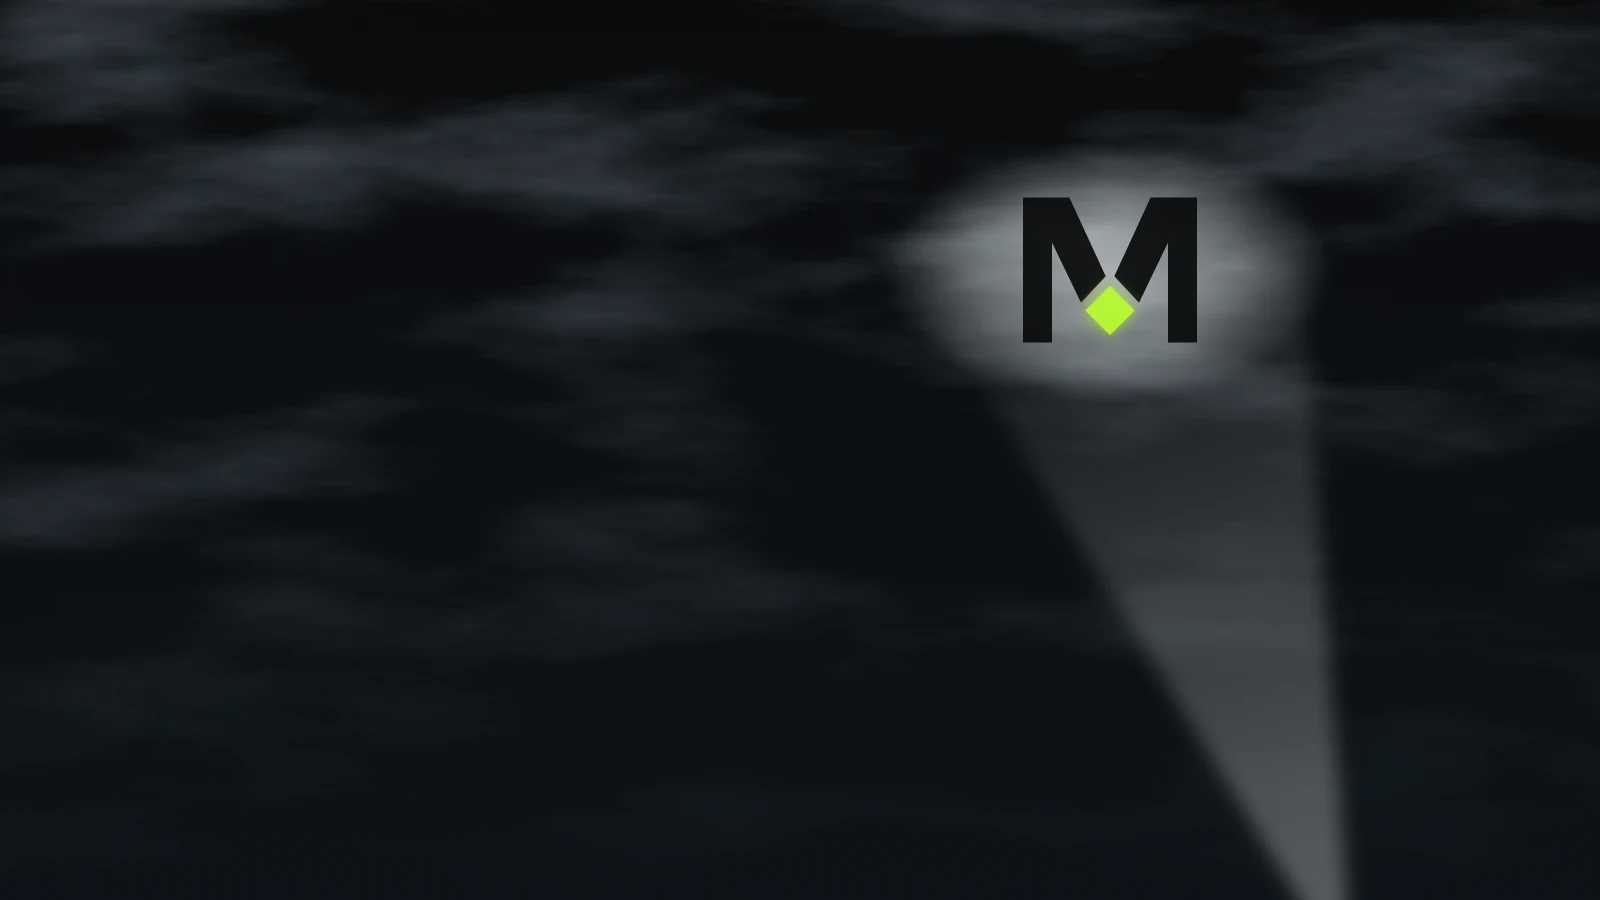
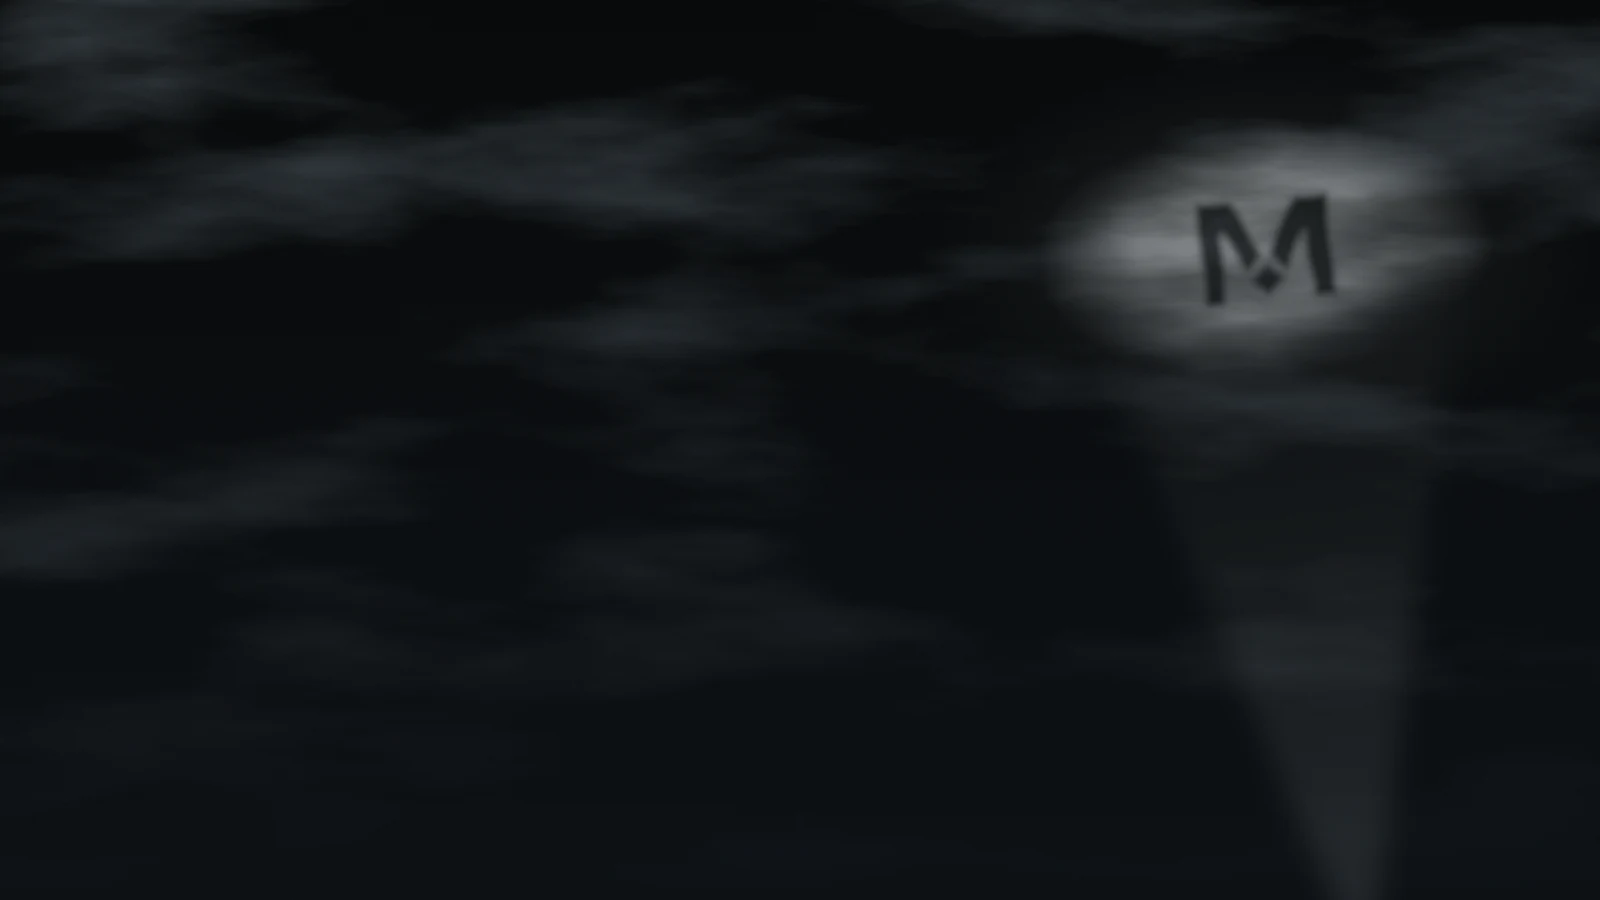
feat(contato): sinal minimalista — só nuvens e o M discreto projetado

diff --git a/assets/identity.css b/assets/identity.css
@@ -168,7 +168,13 @@ h2 { letter-spacing: -.035em; }
 .contact .button:hover { background: var(--accent); box-shadow: 0 0 0 1px var(--accent), 0 0 40px rgba(184, 255, 44, .3); }
 .contact :focus-visible { outline-color: var(--accent); }
 .id-signal { position: absolute; inset: 0; z-index: 0; pointer-events: none; }
-.id-signal img { width: 100%; height: 100%; object-fit: cover; object-position: 70% 62%; animation: id-flicker 6s steps(1) infinite; }
+.id-signal img {
+  position: absolute; top: -70px; right: 0; width: min(1240px, 92%); height: auto; animation: id-flicker 6s steps(1) infinite;
+  -webkit-mask-image: linear-gradient(to right, transparent 0%, #000 38%), linear-gradient(to bottom, transparent 0%, #000 12%, #000 55%, transparent 100%);
+  -webkit-mask-composite: source-in;
+  mask-image: linear-gradient(to right, transparent 0%, #000 38%), linear-gradient(to bottom, transparent 0%, #000 12%, #000 55%, transparent 100%);
+  mask-composite: intersect;
+}
 .id-signal::after { content: ""; position: absolute; inset: 0; background: linear-gradient(90deg, rgba(6, 8, 9, .92) 0%, rgba(6, 8, 9, .55) 45%, rgba(6, 8, 9, 0) 75%), linear-gradient(0deg, rgba(6, 8, 9, .85) 0%, rgba(6, 8, 9, 0) 45%); }
 
 /* ---------------------------------------------------------------- rodapé e HUD do modo construção */
@@ -186,12 +192,6 @@ h2 { letter-spacing: -.035em; }
   h1 { font-size: clamp(48px, 6.6vw, 68px); }
   .hero__word { font-size: clamp(52px, 7.4vw, 76px); top: 70%; }
   .nav a { letter-spacing: .06em; font-size: 10.5px; }
-  /* O sinal vira o topo da seção; o texto vem logo abaixo, sobre o fundo liso. */
-  .contact { padding-top: 300px; }
-  .contact::after { top: 262px; }
-  .id-signal { bottom: auto; height: 330px; }
-  .id-signal img { object-position: 69% 24%; }
-  .id-signal::after { background: linear-gradient(180deg, rgba(6, 8, 9, .15) 0%, rgba(6, 8, 9, 0) 45%, var(--ink) 100%); }
   .brand__name { font-stretch: 110%; letter-spacing: .05em; }
   .id-dial { left: -4%; width: 108%; top: 6%; }
 }
@@ -207,5 +207,13 @@ h2 { letter-spacing: -.035em; }
 }
 @media (max-width: 374px) {
   h1 { font-size: 38px; }
+}
+@media (max-width: 1279px) {
+  /* O sinal vira o topo da seção; o texto vem logo abaixo, sobre o fundo liso. */
+  .contact { padding-top: 300px; }
+  .contact::after { top: 262px; }
+  .id-signal { bottom: auto; height: 330px; }
+  .id-signal img { position: static; width: 100%; height: 100%; object-fit: cover; object-position: 100% 0%; -webkit-mask-image: none; mask-image: none; }
+  .id-signal::after { background: linear-gradient(180deg, rgba(6, 8, 9, .15) 0%, rgba(6, 8, 9, 0) 45%, var(--ink) 100%); }
 }
 @media print { body::after, .id-dial, .id-signal { display: none !important; } }

diff --git a/index.html b/index.html
@@ -328,7 +328,7 @@
       .hero__photo { transform: none !important; }
     }
   </style>
-  <link rel="stylesheet" href="assets/identity.css?v=1">
+  <link rel="stylesheet" href="assets/identity.css?v=5">
 </head>
 <body>
   <a class="skip" href="#conteudo" data-i18n="skip">Pular para o conteúdo</a>
@@ -448,7 +448,7 @@
       </div>
     </section>
     <section class="contact section" id="contact" aria-labelledby="contact-title" tabindex="-1">
-      <div class="id-signal" aria-hidden="true"><img src="assets/identity/signal.webp" alt="" width="1600" height="900" loading="lazy" decoding="async"></div>
+      <div class="id-signal" aria-hidden="true"><img src="assets/identity/signal.webp?v=3" alt="" width="1600" height="900" loading="lazy" decoding="async"></div>
       <div class="wrap contact__grid"><h2 id="contact-title" data-i18n="contact.title">Vamos tirar a próxima ideia do papel?</h2><div><p data-i18n="contact.p">Me conte sobre seu negócio, o que você quer construir e em que momento o projeto está.</p><a class="button" data-i18n-href="contact.href" href="https://wa.me/5566999772519?text=Oi%2C%20Miguel.%20Quero%20conversar%20sobre%20um%20projeto." target="_blank" rel="noopener noreferrer" data-i18n-aria="contact.aria" aria-label="Conversar com Miguel pelo WhatsApp, abre em nova aba"><span data-i18n="contact.cta">Conversar pelo WhatsApp</span> <svg aria-hidden="true"><use href="#arrow"/></svg></a></div></div>
     </section>
   </main>
